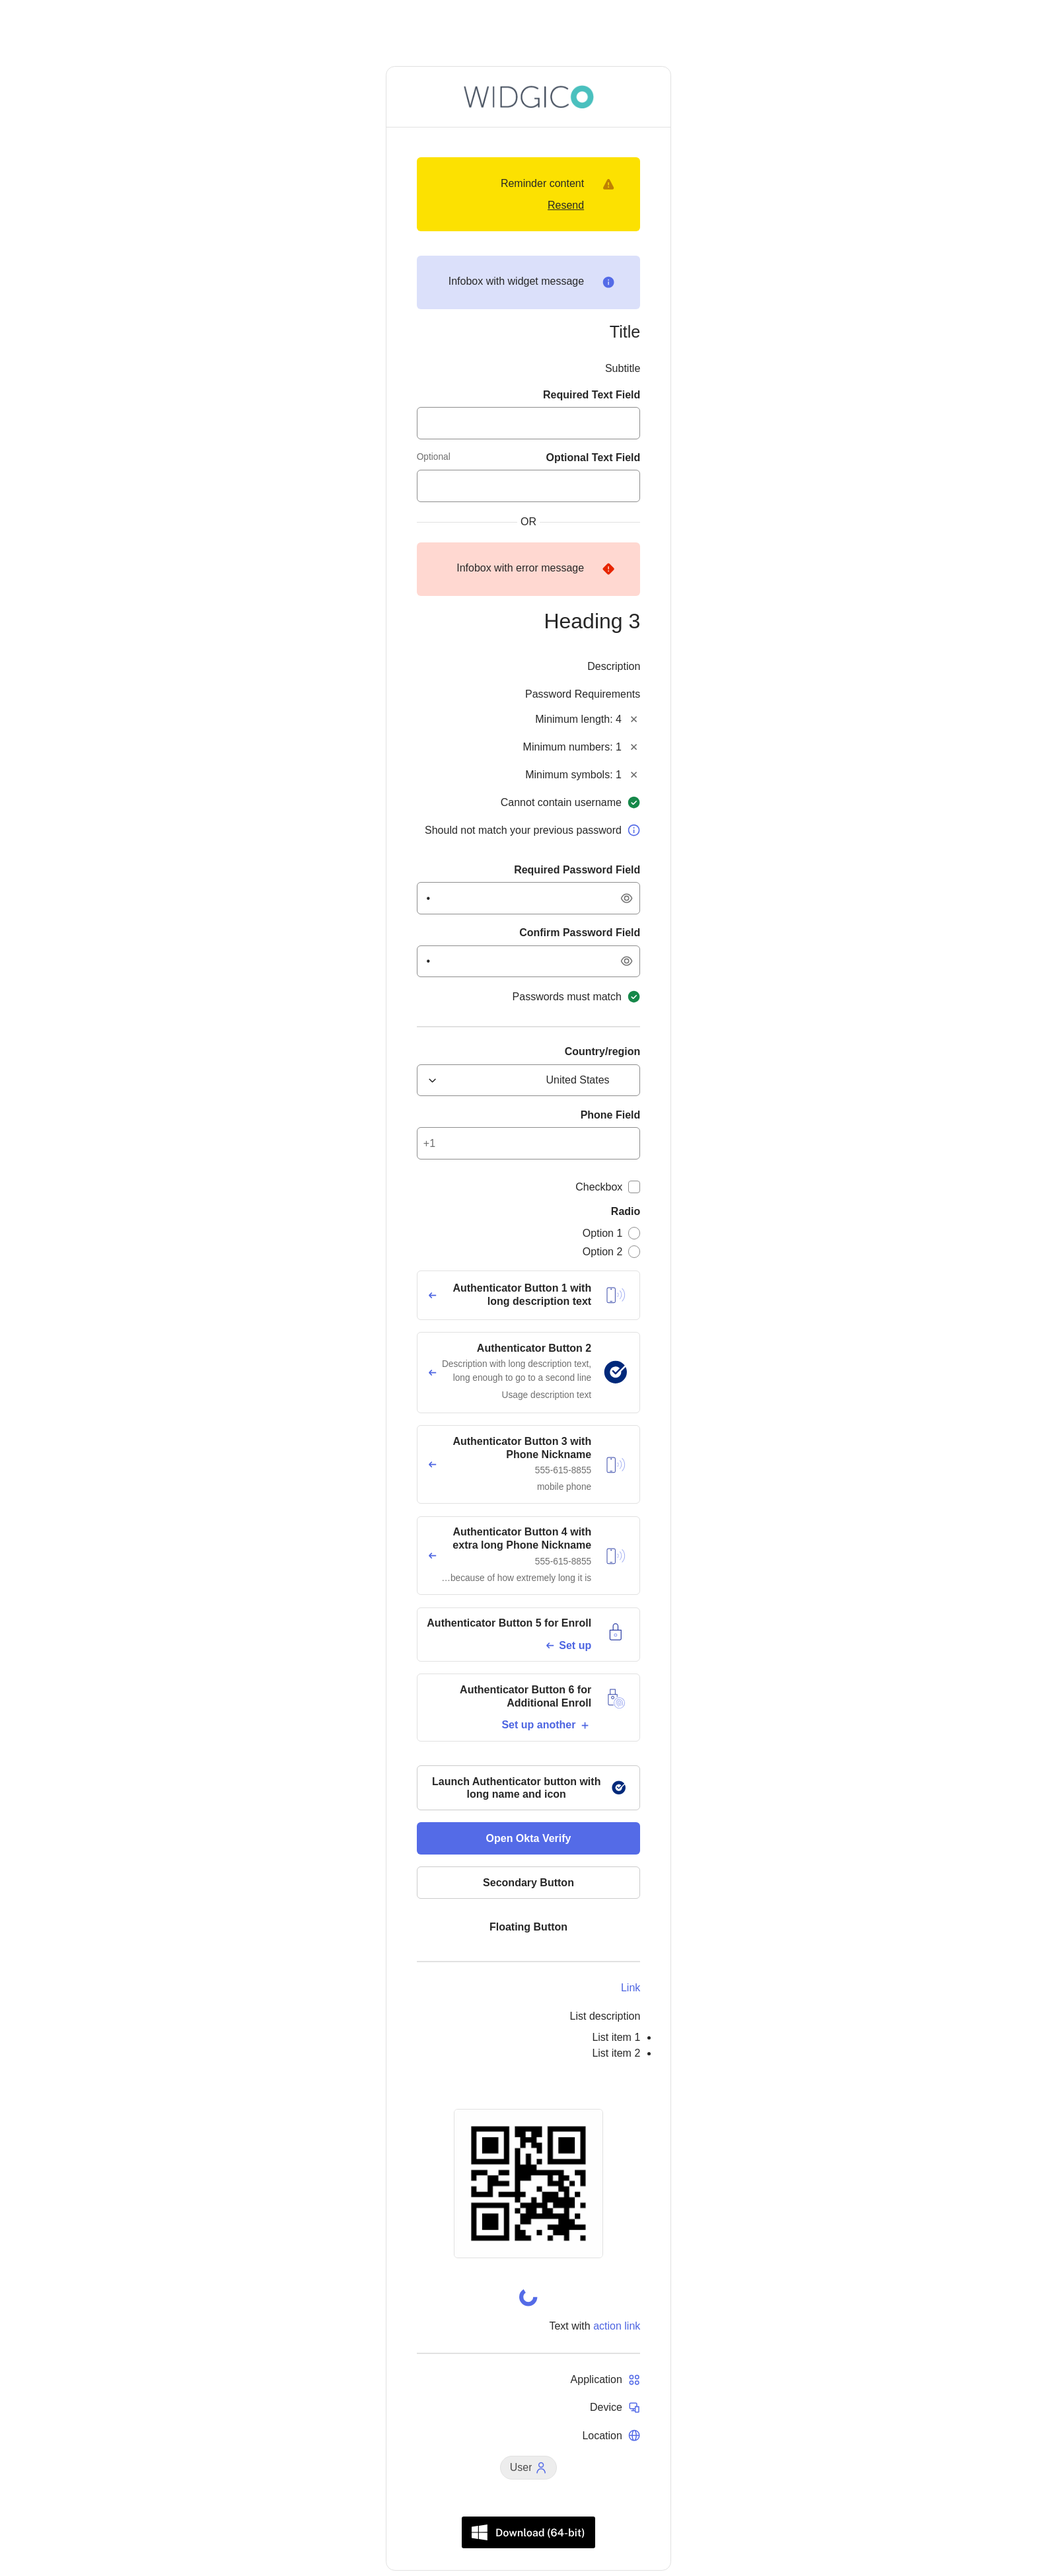
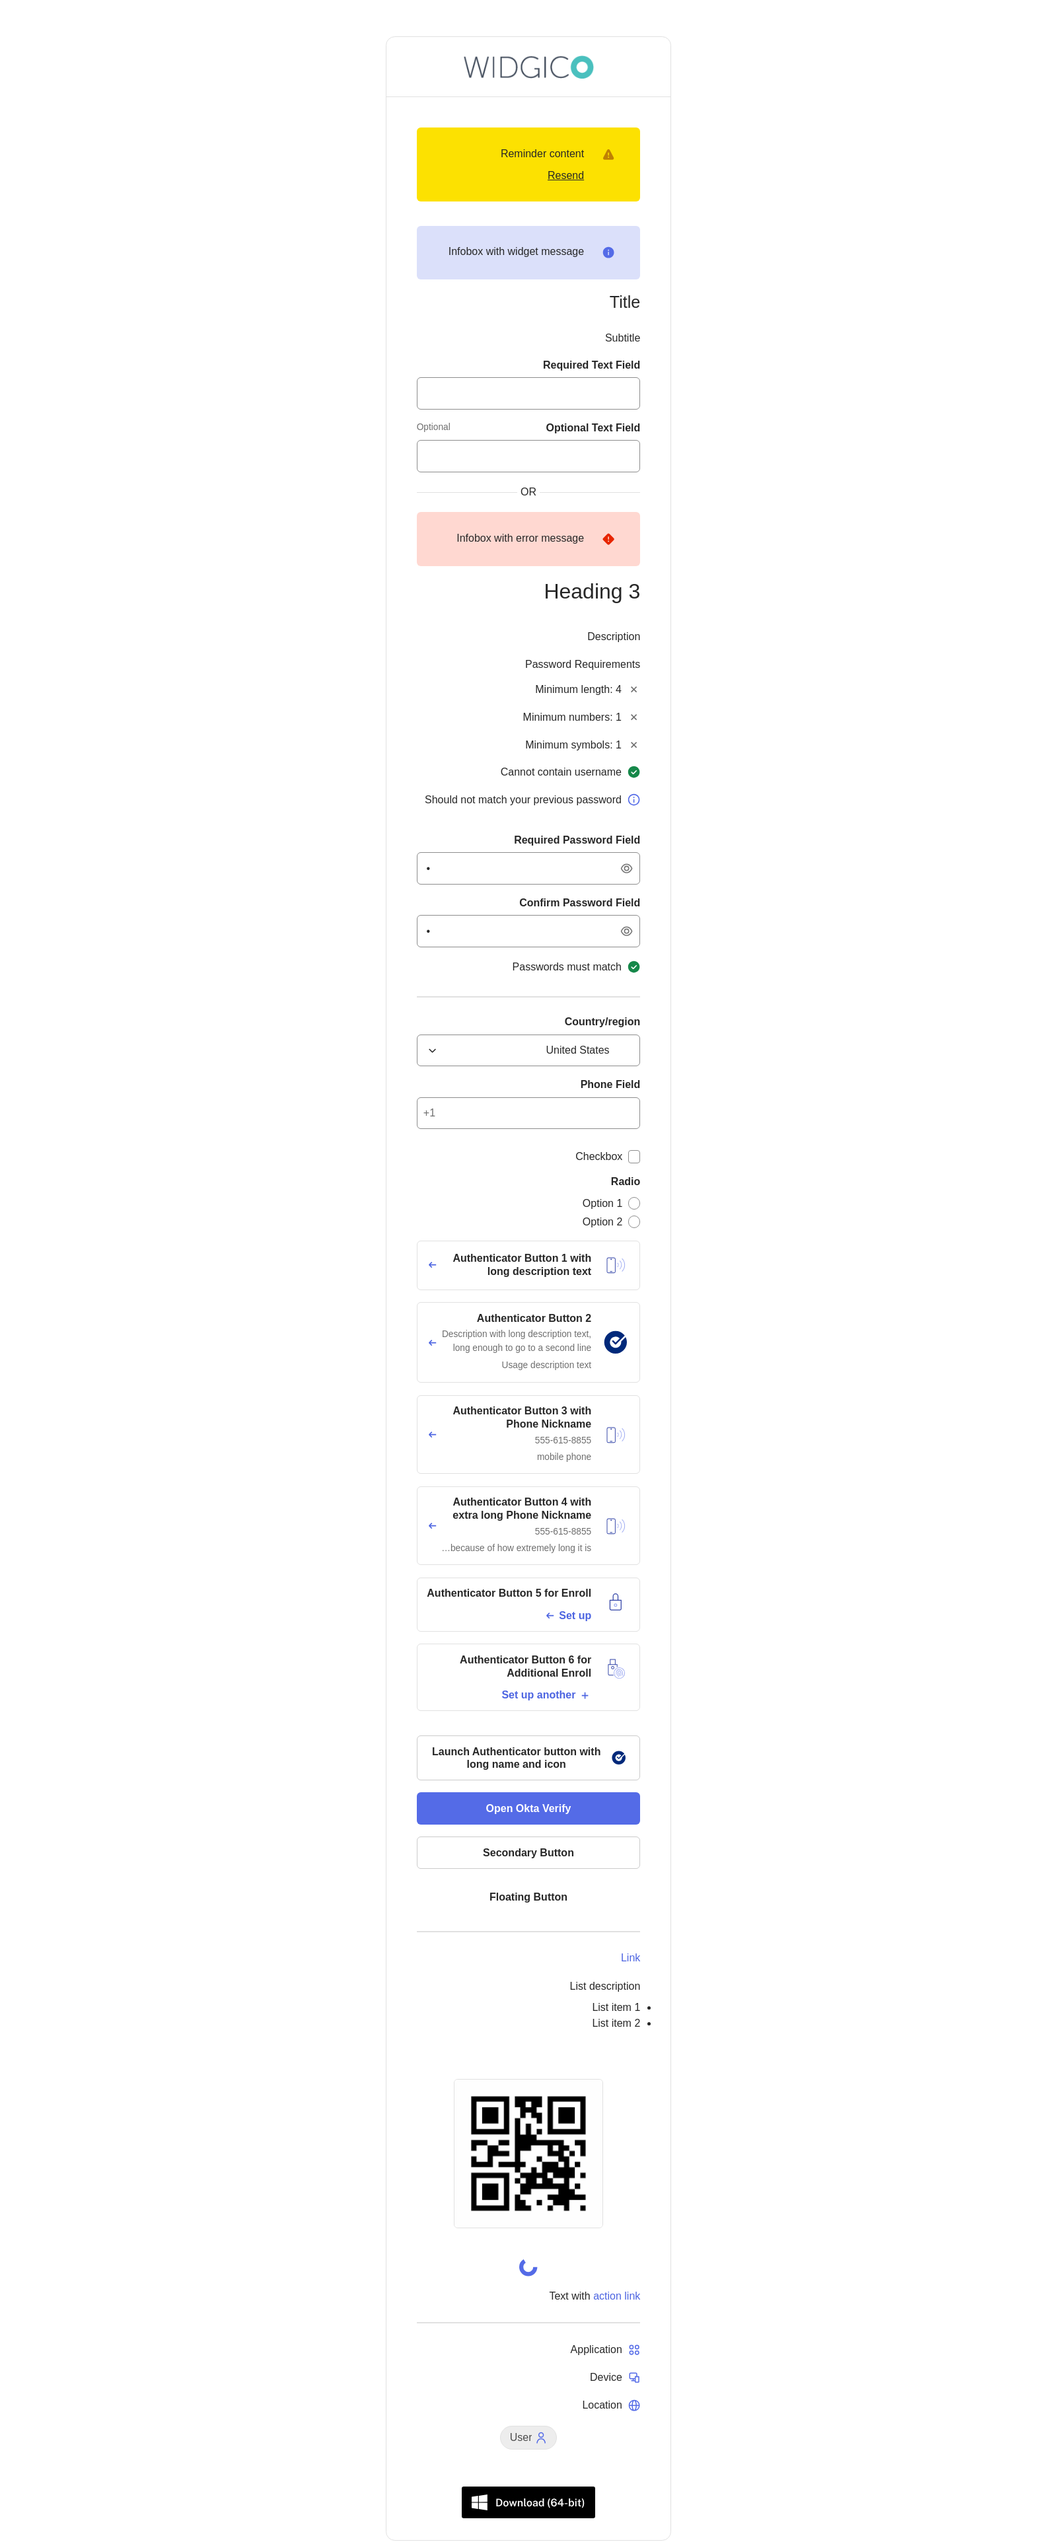
Improve marginBlockStart for SIW container (#3772)
OKTA-822649 chore: Optimize margin-top for SIW container

diff --git a/playground/hooks/index.ts b/playground/hooks/index.ts
@@ -17,7 +17,7 @@ export const customizeWidgetOptionsForHooks = (config: WidgetOptionsV3 = {}) => 
   //  To customize styling:
   //  1. Paste content of `hooks/css/customize.css` inside `<style nonce="{{nonceValue}}">`
   //  2. Paste the following line after `oktaSignIn.renderEl(...)`
-  document.querySelector('#okta-login-container').classList.add('siw-customized');
+  document.querySelector('#signin-container').classList.add('siw-customized');
 
   customizeWidgetOptionsForEnrollProfileForm(config);
 };

diff --git a/src/v3/src/components/AuthContainer/AuthContainer.tsx b/src/v3/src/components/AuthContainer/AuthContainer.tsx
@@ -52,8 +52,11 @@ const AuthContainer: FunctionComponent<{ hide: boolean }> = ({ children, hide })
           alignItems="center"
           sx={{
             minInlineSize: '100%',
-            marginBlockStart: '100px',
+            marginBlockStart: tokens.Spacing2,
             marginInline: 'auto',
+            '@media only screen and (min-height: 830px)': {
+              marginBlockStart: tokens.Spacing8,
+            },
           }}
         >
           <Box

diff --git a/src/v3/src/components/Widget/style.scss b/src/v3/src/components/Widget/style.scss
@@ -214,6 +214,11 @@
 #signin-container {
   margin-block: map.get($ods-tokens, 'spacing', '8');
 }
+@media only screen and (max-height: 830px) {
+  #signin-container {
+    margin-block-start: map.get($ods-tokens, 'spacing', '2');
+  }
+}
 @media only screen and (max-width: 600px) {
   #signin-container {
     margin-block: map.get($ods-tokens, 'spacing', '2');

diff --git a/playground/cdn.html b/playground/cdn.html
@@ -9,11 +9,11 @@
   </head>
 
   <body>
-    <div id="okta-login-container"></div>
+    <div id="signin-container"></div>
     <script src="/js/okta-sign-in.min.js"></script>
     <script>
       var config = {
-        el: '#okta-login-container',
+        el: '#signin-container',
         baseUrl: 'http://localhost:3000',
 
         // OIE config

diff --git a/src/util/Enums.js b/src/util/Enums.js
@@ -13,7 +13,7 @@
 export default {
   API_RATE_LIMIT: 30000, //milliseconds
 
-  WIDGET_LOGIN_CONTAINER_ID: 'okta-login-container',
+  WIDGET_LOGIN_CONTAINER_ID: 'signin-container',
   WIDGET_CONTAINER_ID: 'okta-sign-in',
   WIDGET_CONFIG_COLORS_ID: 'okta-sign-in-config-colors',
 

diff --git a/playground/index.html b/playground/index.html
@@ -11,7 +11,7 @@
   </head>
   
   <body>
-    <div id="okta-login-container"></div>
+    <div id="signin-container"></div>
     <script src="/js/okta-sign-in.debugger.min.js"></script>
     <!-- <script nonce="playground">
       window.OktaSignInDebug.init({

diff --git a/playground/main.ts b/playground/main.ts
@@ -77,7 +77,7 @@ const renderPlaygroundWidget = (options: WidgetOptions & { assertNoEnglishLeaks?
   }
 
   signIn.renderEl(
-    { el: '#okta-login-container' },
+    { el: '#signin-container' },
 
     function success(res) {
       // Password recovery flow
